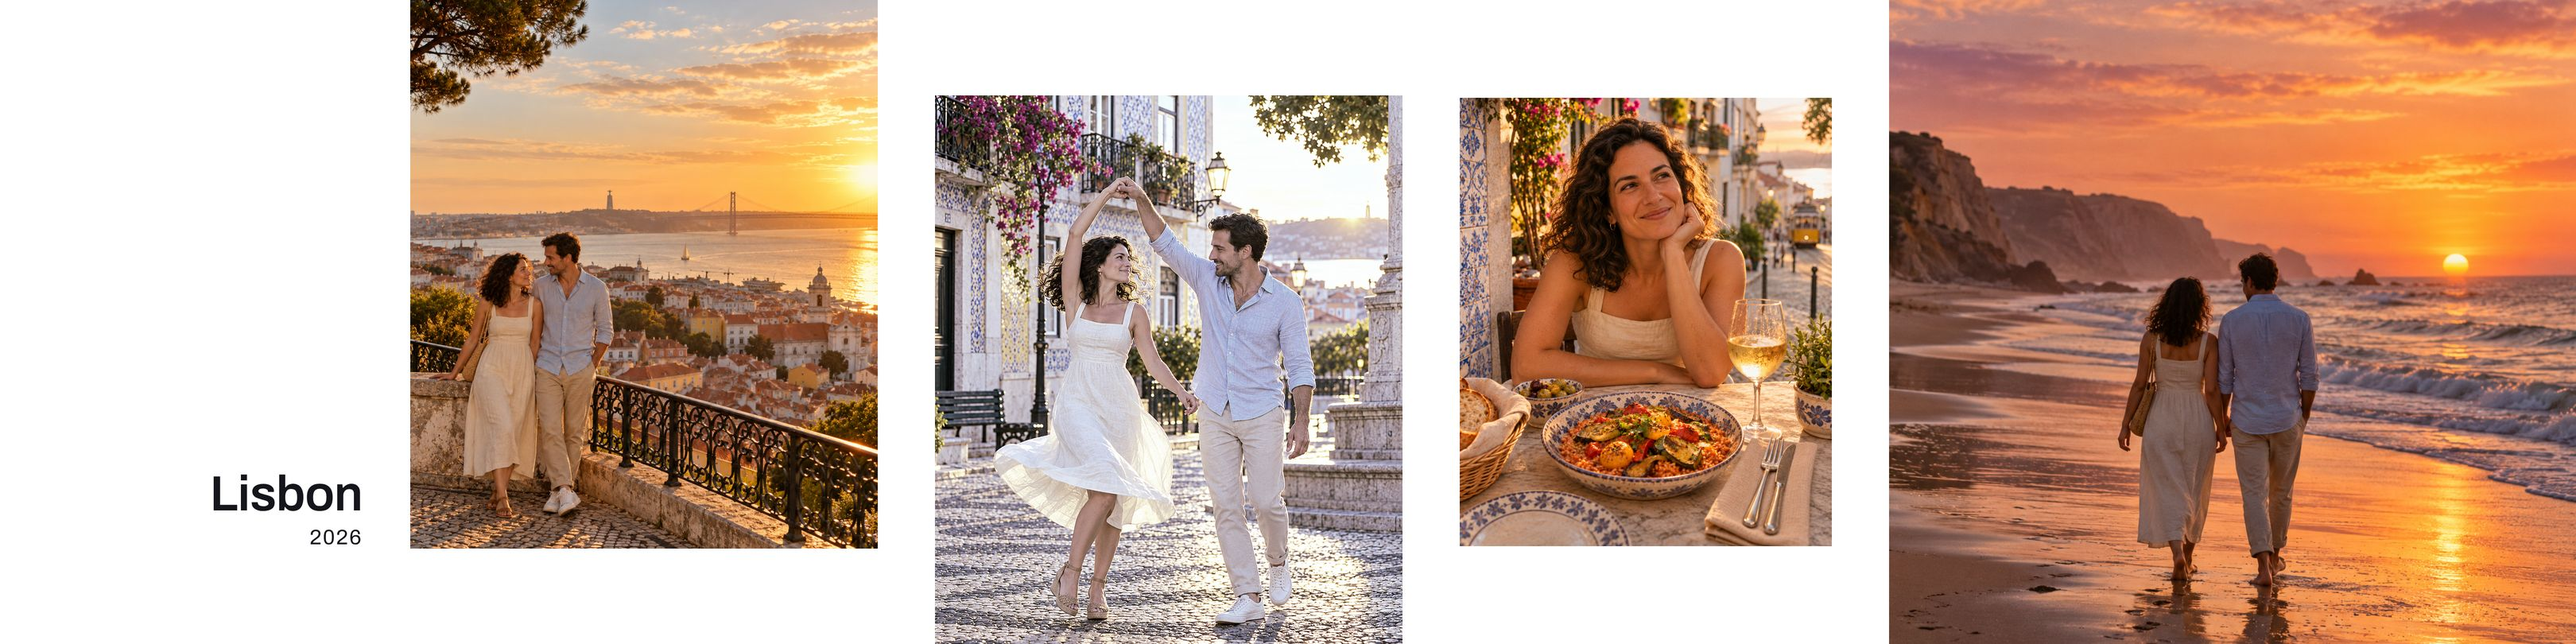
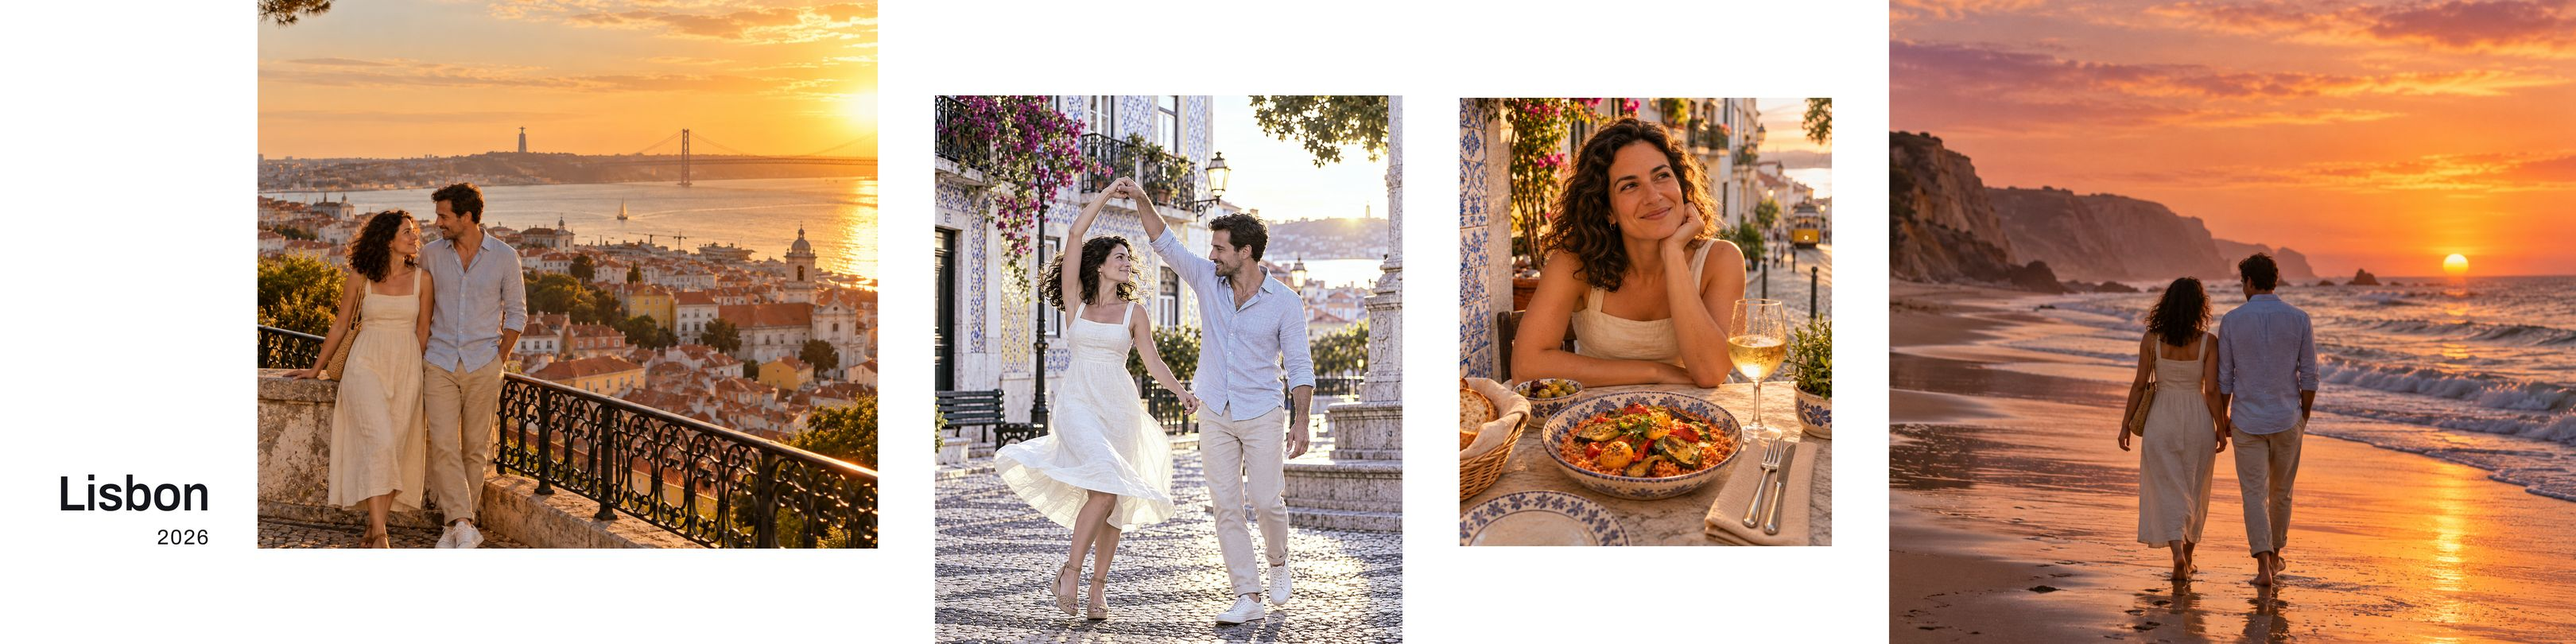
Swipe demo: the Lisbon couple sits on the first slide
Claude-Session: https://claude.ai/code/session_01CrTP1Gvp6W5qnEGMNC5TCR

Changed region(s): [[0.0, 0.0, 0.3429, 0.8642]]

diff --git a/index.html b/index.html
@@ -46,10 +46,10 @@
   <div class="demo">
     <div class="phone" aria-hidden="true"><div class="screen">
       <div class="post-head"><i></i>your.account</div>
-      <div class="viewport"><div class="strip"><svg viewBox="0 0 5400 1350" preserveAspectRatio="none" role="img" aria-label="Five Instagram slides of a Lisbon trip, with photos running across the cuts between them"><image href="img/demo-lisbon.jpg?v=4" width="5400" height="1350" preserveAspectRatio="none"/></svg></div></div>
+      <div class="viewport"><div class="strip"><svg viewBox="0 0 5400 1350" preserveAspectRatio="none" role="img" aria-label="Five Instagram slides of a Lisbon trip, with photos running across the cuts between them"><image href="img/demo-lisbon.jpg?v=5" width="5400" height="1350" preserveAspectRatio="none"/></svg></div></div>
       <div class="dots"><b></b><b></b><b></b><b></b><b></b></div>
     </div></div>
-    <figure class="sheet"><div class="frame"><svg viewBox="0 0 5400 1350" role="img" aria-label="The same five slides laid side by side, with dashed lines where Instagram cuts them"><image href="img/demo-lisbon.jpg?v=4" width="5400" height="1350" preserveAspectRatio="none"/><line x1="1080" y1="0" x2="1080" y2="1350" stroke="#ff3d71" stroke-width="10" stroke-dasharray="40 30"/><line x1="2160" y1="0" x2="2160" y2="1350" stroke="#ff3d71" stroke-width="10" stroke-dasharray="40 30"/><line x1="3240" y1="0" x2="3240" y2="1350" stroke="#ff3d71" stroke-width="10" stroke-dasharray="40 30"/><line x1="4320" y1="0" x2="4320" y2="1350" stroke="#ff3d71" stroke-width="10" stroke-dasharray="40 30"/></svg></div><figcaption>5 slides · 1080 × 1350 each · cuts in pink</figcaption></figure>
+    <figure class="sheet"><div class="frame"><svg viewBox="0 0 5400 1350" role="img" aria-label="The same five slides laid side by side, with dashed lines where Instagram cuts them"><image href="img/demo-lisbon.jpg?v=5" width="5400" height="1350" preserveAspectRatio="none"/><line x1="1080" y1="0" x2="1080" y2="1350" stroke="#ff3d71" stroke-width="10" stroke-dasharray="40 30"/><line x1="2160" y1="0" x2="2160" y2="1350" stroke="#ff3d71" stroke-width="10" stroke-dasharray="40 30"/><line x1="3240" y1="0" x2="3240" y2="1350" stroke="#ff3d71" stroke-width="10" stroke-dasharray="40 30"/><line x1="4320" y1="0" x2="4320" y2="1350" stroke="#ff3d71" stroke-width="10" stroke-dasharray="40 30"/></svg></div><figcaption>5 slides · 1080 × 1350 each · cuts in pink</figcaption></figure>
   </div>
 </div></section>
 
